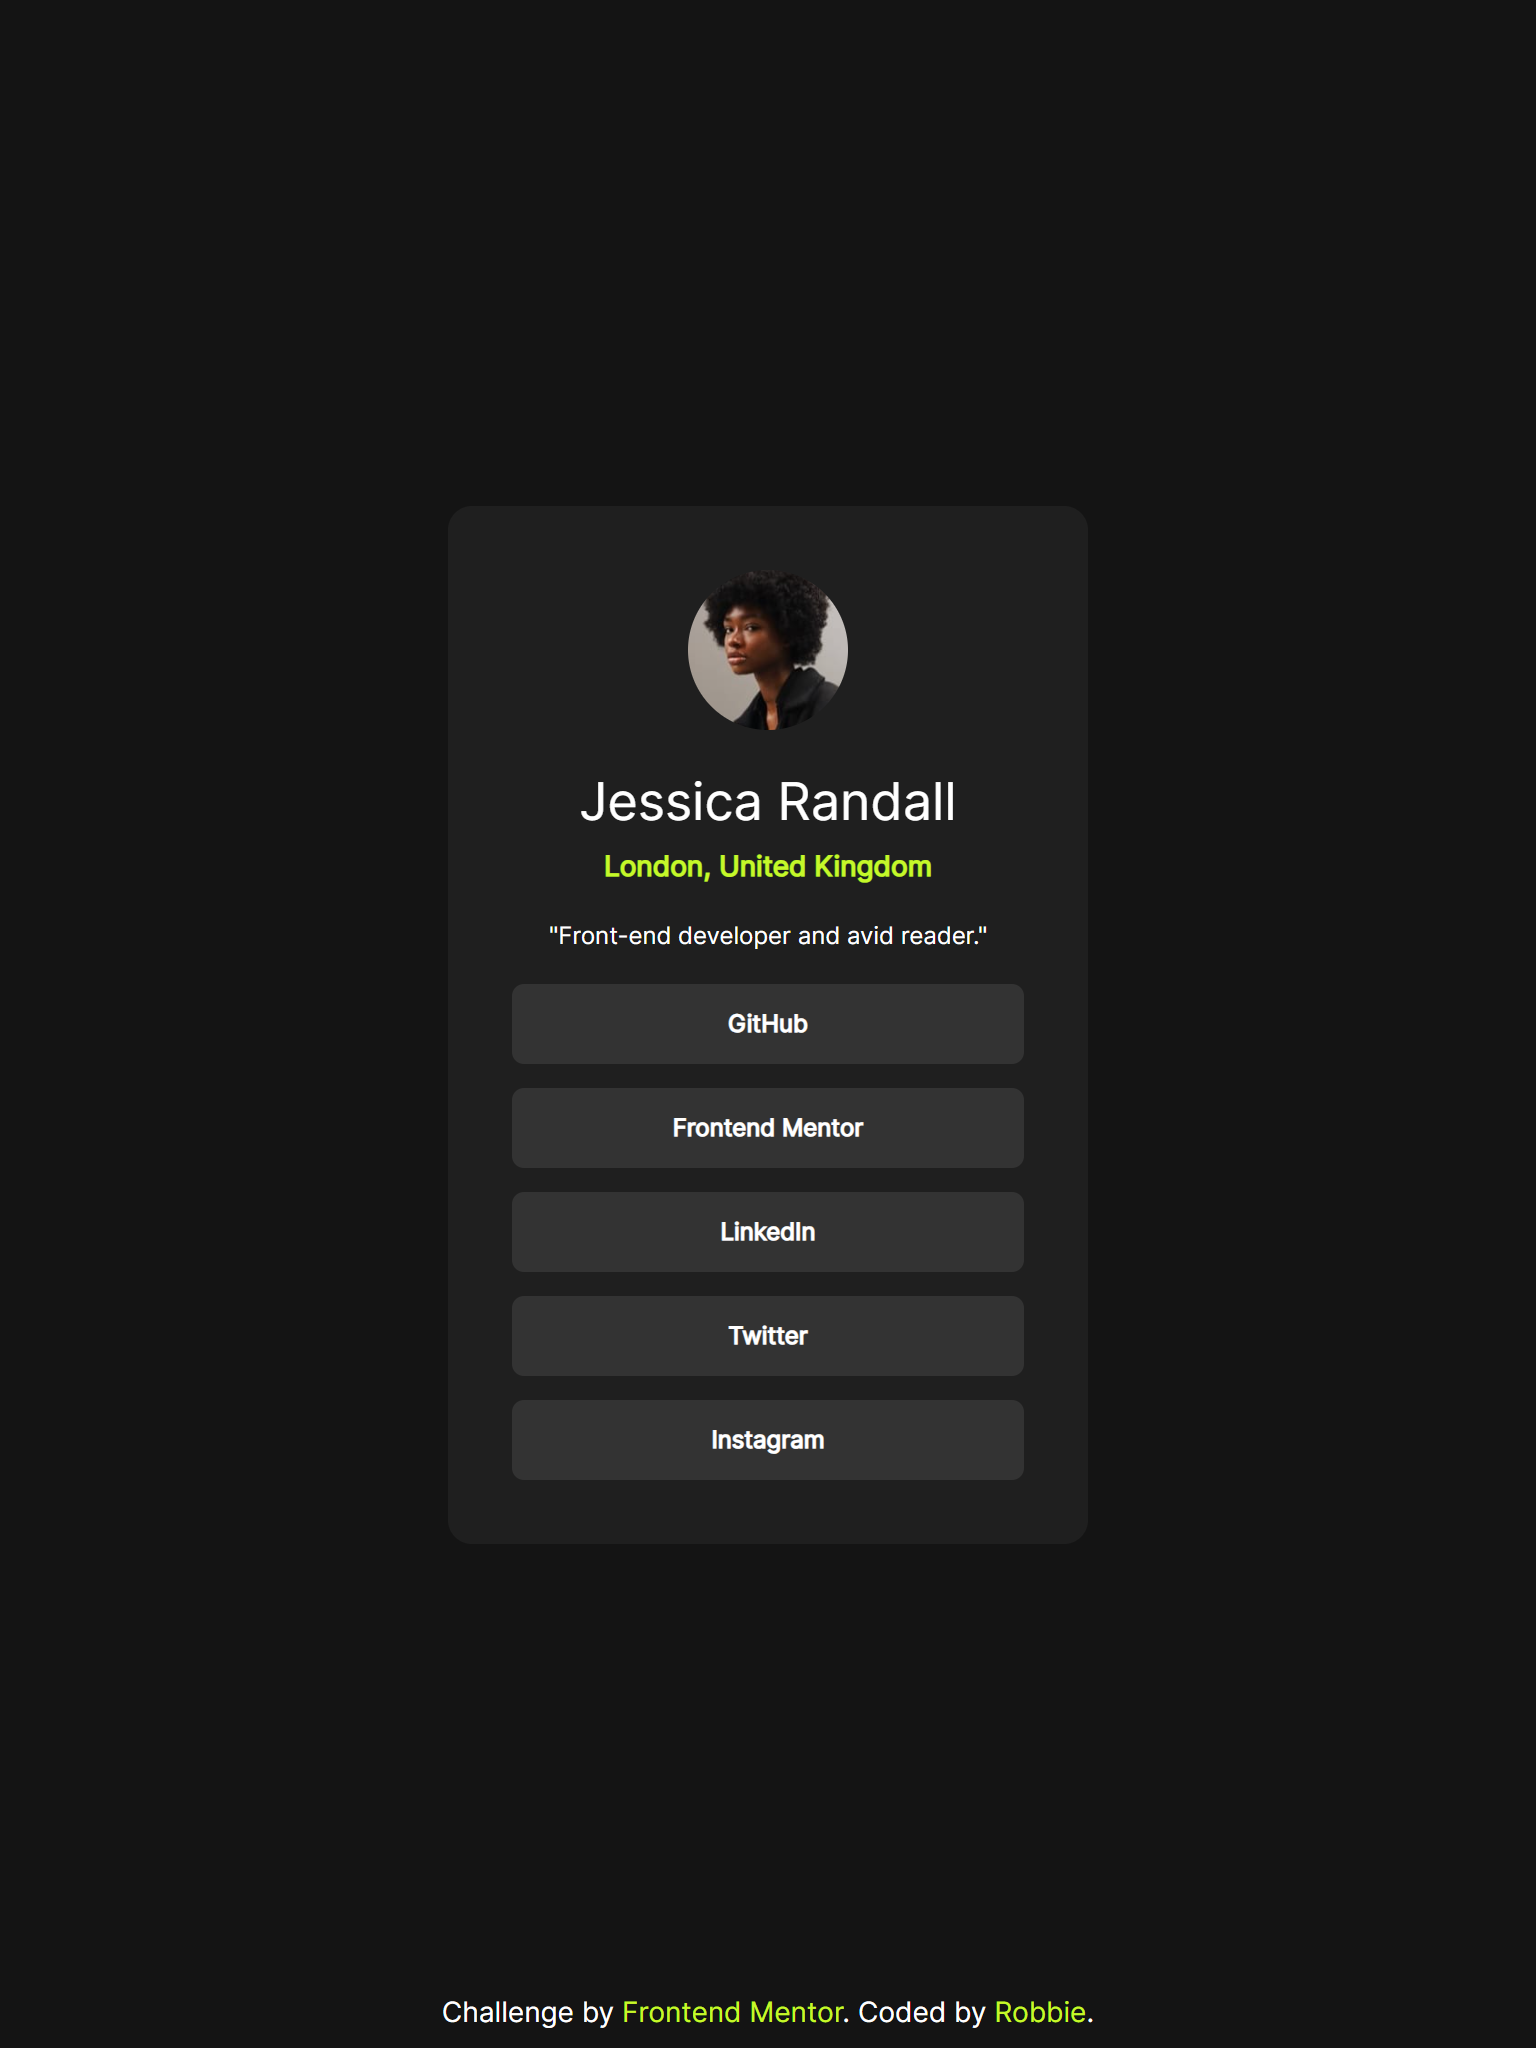
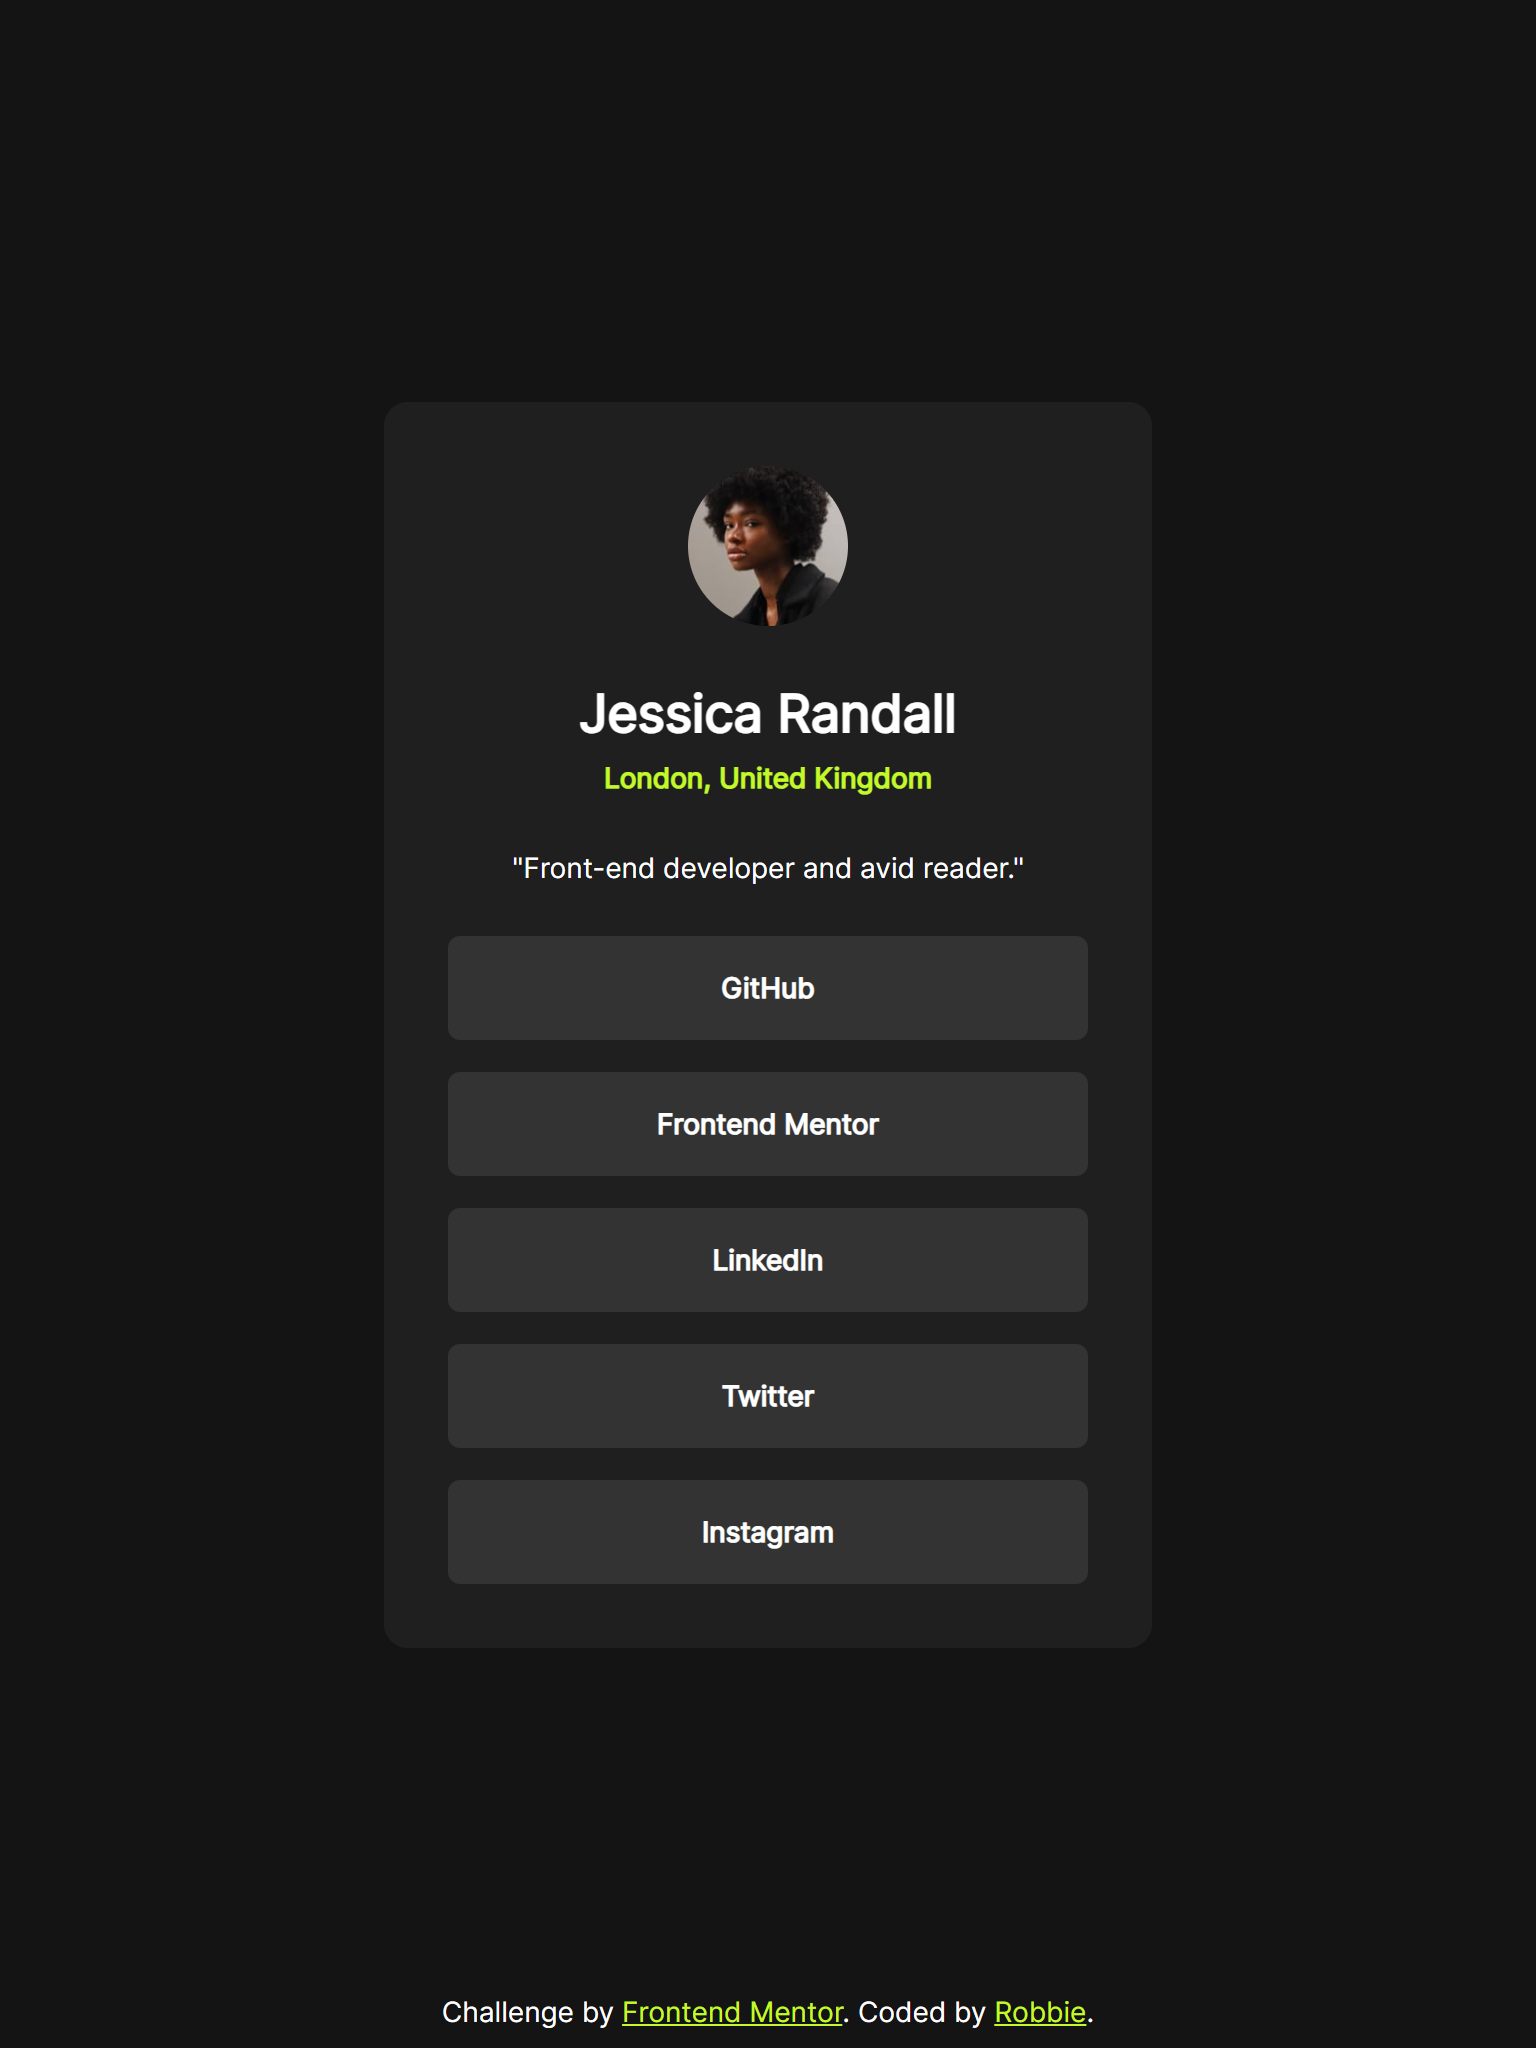
updated style to match design better

Changed region(s): [[0.3438, 0.25, 0.6562, 0.5], [0.2812, 0.5938, 0.7188, 0.7812], [0.4375, 0.5312, 0.5625, 0.5625]]

diff --git a/index.html b/index.html
@@ -16,38 +16,40 @@
 	<body class="bg-grey-900 text-white text-center font-inter">
 		<main class="grid place-items-center min-h-screen">
 			<section
-				class="bg-grey-700 rounded-xl mx-auto grid gap-4 p-6 sm:p-8 sm:min-w-80 justify-items-center"
+				class="bg-grey-700 rounded-xl mx-auto grid gap-6 p-6 sm:p-8 sm:min-w-96 justify-items-center"
 			>
 				<img
 					src="./assets/images/avatar-jessica.jpeg"
+          alt="Jessica"
 					class="size-20 rounded-full"
 				/>
 				<div>
-					<h1 class="text-[1.625rem]">Jessica Randall</h1>
+					<h1 class="text-[1.625rem] font-bold">Jessica Randall</h1>
 					<span class="text-green font-semibold text-sm"
 						>London, United Kingdom</span
 					>
 				</div>
-				<p class="text-xs">"Front-end developer and avid reader."</p>
+				<p class="text-sm">"Front-end developer and avid reader."</p>
 
-				<div class="grid gap-3 font-semibold text-xs w-full">
-					<a href="#" class="bg-grey-400 rounded-md p-3 hover:bg-green hover:text-grey-900">GitHub</a>
-					<a href="#" class="bg-grey-400 rounded-md p-3 hover:bg-green hover:text-grey-900">Frontend Mentor</a>
-					<a href="#" class="bg-grey-400 rounded-md p-3 hover:bg-green hover:text-grey-900">LinkedIn</a>
-					<a href="#" class="bg-grey-400 rounded-md p-3 hover:bg-green hover:text-grey-900">Twitter</a>
-					<a href="#" class="bg-grey-400 rounded-md p-3 hover:bg-green hover:text-grey-900">Instagram</a>
+				<div class="grid gap-4 font-semibold text-sm w-full">
+					<a href="#" class="bg-grey-400 rounded-md p-4 hover:bg-green hover:text-grey-900">GitHub</a>
+					<a href="#" class="bg-grey-400 rounded-md p-4 hover:bg-green hover:text-grey-900">Frontend Mentor</a>
+					<a href="#" class="bg-grey-400 rounded-md p-4 hover:bg-green hover:text-grey-900">LinkedIn</a>
+					<a href="#" class="bg-grey-400 rounded-md p-4 hover:bg-green hover:text-grey-900">Twitter</a>
+					<a href="#" class="bg-grey-400 rounded-md p-4 hover:bg-green hover:text-grey-900">Instagram</a>
 				</div>
 			</section>
 		</main>
-		<div class="text-sm absolute bottom-0 text-center w-full pb-2">
+    
+		<footer class="text-sm absolute bottom-0 text-center w-full pb-2">
 			Challenge by
 			<a
 				href="https://www.frontendmentor.io?ref=challenge"
 				target="_blank"
-				class="text-green hover:underline"
+				class="text-green underline hover:underline-offset-4"
 				>Frontend Mentor</a
 			>. Coded by
-			<a href="https://robbie.kiwi/" class="text-green hover:underline">Robbie</a>.
-		</div>
+			<a href="https://robbie.kiwi/" class="text-green underline hover:underline-offset-4">Robbie</a>.
+    </footer>
 	</body>
 </html>

diff --git a/src/output.css b/src/output.css
@@ -634,6 +634,10 @@ video {
   gap: 1rem;
 }
 
+.gap-6 {
+  gap: 1.5rem;
+}
+
 .rounded-full {
   border-radius: 9999px;
 }
@@ -673,6 +677,10 @@ video {
   padding: 0.75rem;
 }
 
+.p-4 {
+  padding: 1rem;
+}
+
 .pb-2 {
   padding-bottom: 0.5rem;
 }
@@ -703,6 +711,10 @@ video {
   font-weight: 600;
 }
 
+.font-bold {
+  font-weight: 700;
+}
+
 .text-green {
   --tw-text-opacity: 1;
   color: hsl(75 94% 57% / var(--tw-text-opacity));
@@ -711,6 +723,10 @@ video {
 .text-white {
   --tw-text-opacity: 1;
   color: hsl(0 0% 100% / var(--tw-text-opacity));
+}
+
+.underline {
+  text-decoration-line: underline;
 }
 
 .hover\:bg-green:hover {
@@ -725,6 +741,10 @@ video {
 
 .hover\:underline:hover {
   text-decoration-line: underline;
+}
+
+.hover\:underline-offset-4:hover {
+  text-underline-offset: 4px;
 }
 
 @media (min-width: 640px) {
